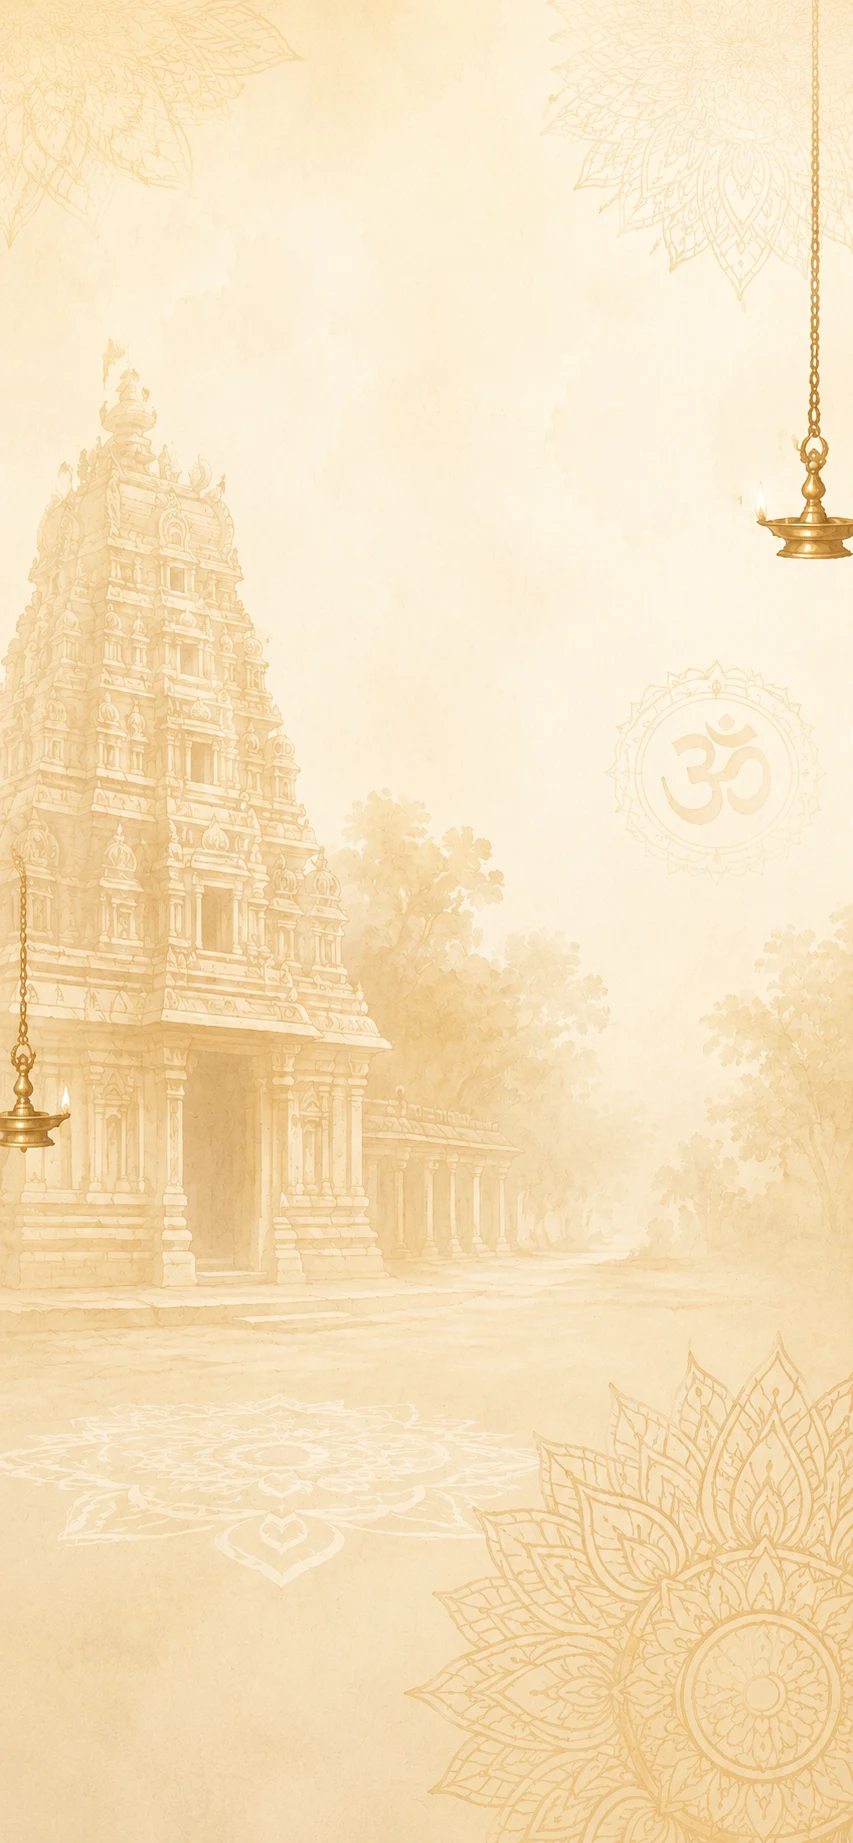
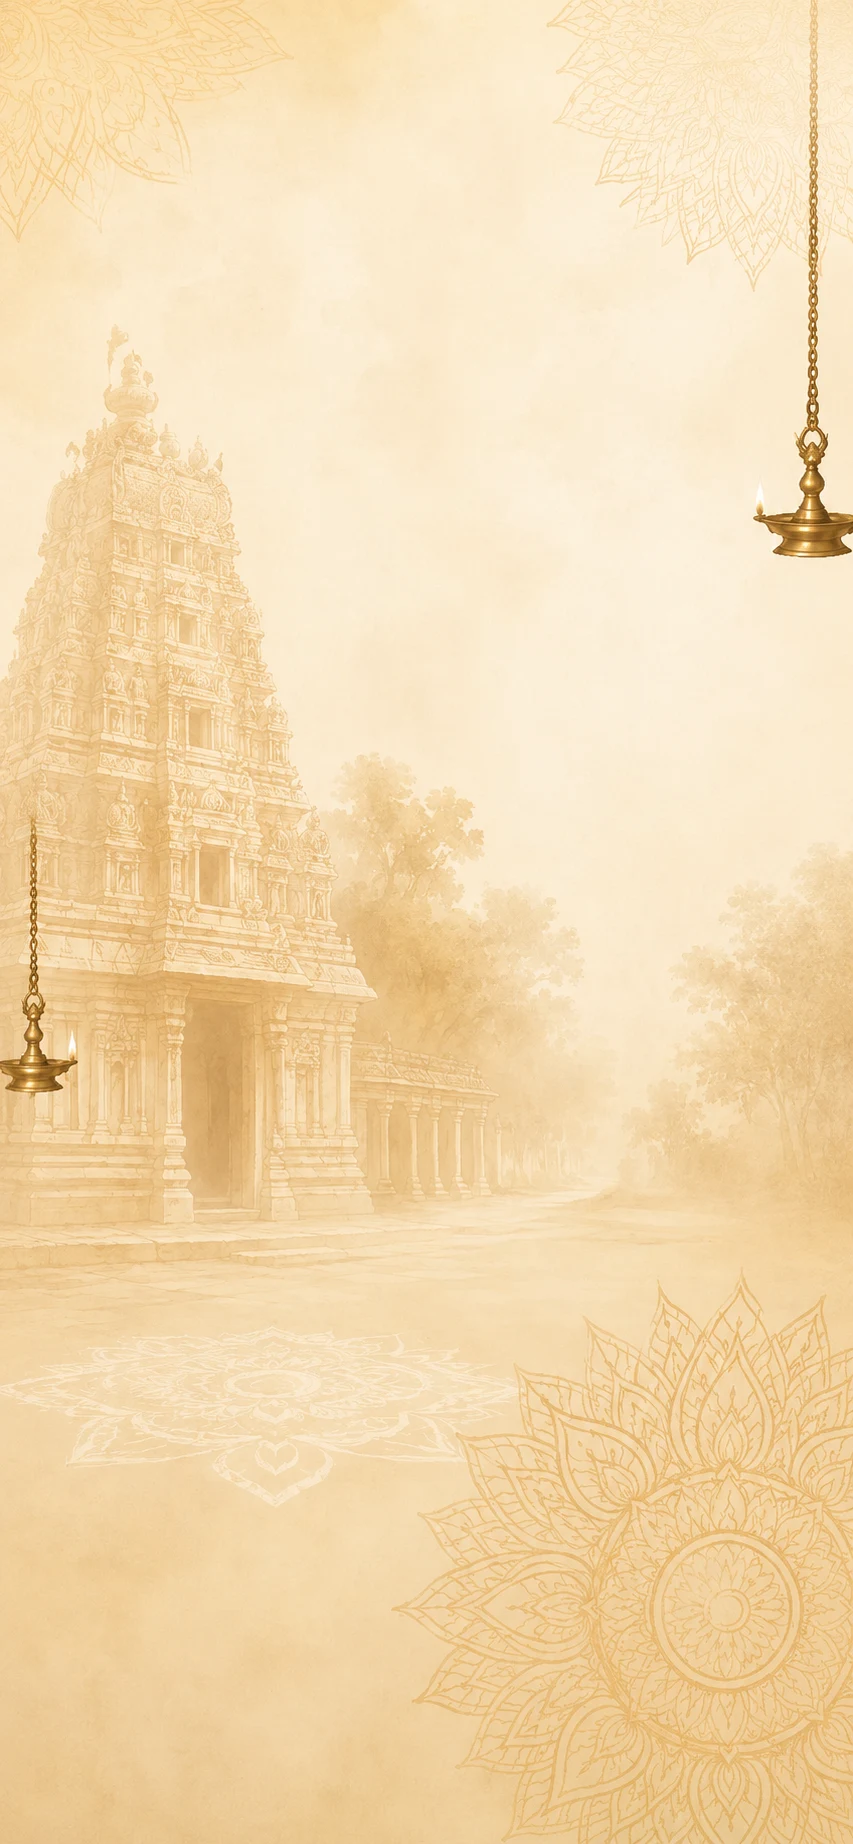
Real toggle switch for status; solid buttons; code field on masters
- Status column across every admin master list now uses a real sliding
  on/off switch (DivineSwitch) instead of a dropdown select
  (StatusToggleCell)
- POS Order Confirmation page buttons switched from the gradient
  variant to the solid single-color one
- Deity and Printing Group forms gain a Code field (list column, form
  input, edit/delete labels)

diff --git a/components/admin/PrintingGroupPage.tsx b/components/admin/PrintingGroupPage.tsx
@@ -19,6 +19,7 @@ import { patchMasterStatus } from "../../lib/patchMasterStatus";
 
 export type PrintingGroup = {
   _id: string;
+  code: string;
   name: string;
   description: string;
   status: number;
@@ -26,6 +27,7 @@ export type PrintingGroup = {
 };
 
 const schema = z.object({
+  code: z.string().trim().min(1, "Code is required").max(20),
   name: z.string().trim().min(2, "Name must be at least 2 characters").max(100),
   description: z.string().trim().max(300),
   status: z.number(),
@@ -64,14 +66,14 @@ export default function PrintingGroupPage() {
 
   function openCreate() {
     setEditing(null);
-    reset({ name: "", description: "", status: 1 });
+    reset({ code: "", name: "", description: "", status: 1 });
     create.setError(null);
     setDrawerOpen(true);
   }
 
   function openEdit(group: PrintingGroup) {
     setEditing(group);
-    reset({ name: group.name, description: group.description, status: group.status });
+    reset({ code: group.code, name: group.name, description: group.description, status: group.status });
     update.setError(null);
     setDrawerOpen(true);
   }
@@ -79,7 +81,7 @@ export default function PrintingGroupPage() {
   const submit = handleSubmit(async (values) => {
     const ok = editing
       ? await update.run(editing._id, values)
-      : await create.run({ name: values.name, description: values.description, status: values.status });
+      : await create.run(values);
     if (ok !== undefined) {
       setDrawerOpen(false);
       if (editing) toast.updated("Printing group updated successfully.");
@@ -88,6 +90,7 @@ export default function PrintingGroupPage() {
   });
 
   const columns: DataTableColumn<PrintingGroup>[] = [
+    { key: "code", label: "Code", render: (g) => <span className="font-medium tabular-nums text-amber-700">{g.code}</span> },
     { key: "name", label: "Name", render: (g) => <span className="font-medium">{g.name}</span> },
     {
       key: "description",
@@ -141,7 +144,7 @@ export default function PrintingGroupPage() {
       <ConfirmDialog
         open={Boolean(deleting)}
         title="Delete this printing group?"
-        message={deleting ? `"${deleting.name}" will be removed.` : ""}
+        message={deleting ? `"${deleting.name} (${deleting.code})" will be removed.` : ""}
         confirmLabel="Delete group"
         tone="danger"
         error={remove.error}
@@ -164,7 +167,7 @@ export default function PrintingGroupPage() {
         open={drawerOpen}
         onClose={() => setDrawerOpen(false)}
         title={editing ? "Edit Printing Group" : "Add Printing Group"}
-        subtitle={editing ? editing.name : "Define a new print-run grouping."}
+        subtitle={editing ? `${editing.name} · ${editing.code}` : "Define a new print-run grouping."}
         error={create.error || update.error}
         footer={
           <div className="flex justify-end gap-3">
@@ -179,7 +182,10 @@ export default function PrintingGroupPage() {
       >
         <form id="printing-group-form" onSubmit={submit} noValidate className="space-y-5">
           <div className="grid grid-cols-1 gap-4 sm:grid-cols-2">
+            <DivineInput staticLabel label="Code" error={errors.code?.message} {...register("code")} />
             <DivineInput staticLabel label="Name" error={errors.name?.message} {...register("name")} />
+          </div>
+          <div className="grid grid-cols-1 gap-4 sm:grid-cols-2">
             <Controller
               control={control}
               name="status"

diff --git a/components/admin/DeityPage.tsx b/components/admin/DeityPage.tsx
@@ -22,6 +22,7 @@ type Ref = { _id: string; name: string };
 
 export type Deity = {
   _id: string;
+  code: string;
   name: string;
   tamilName: string;
   printingGroup: Ref | null;
@@ -29,6 +30,7 @@ export type Deity = {
 };
 
 const schema = z.object({
+  code: z.string().trim().min(1, "Code is required").max(20),
   name: z.string().trim().min(2, "Name must be at least 2 characters").max(100),
   tamilName: z.string().trim(),
   printingGroup: z.string().min(1, "Printing group is required"),
@@ -81,7 +83,7 @@ export default function DeityPage() {
 
   function openCreate() {
     setEditing(null);
-    reset({ name: "", tamilName: "", printingGroup: "", status: 1 });
+    reset({ code: "", name: "", tamilName: "", printingGroup: "", status: 1 });
     create.setError(null);
     setDrawerOpen(true);
   }
@@ -89,6 +91,7 @@ export default function DeityPage() {
   function openEdit(deity: Deity) {
     setEditing(deity);
     reset({
+      code: deity.code,
       name: deity.name,
       tamilName: deity.tamilName,
       printingGroup: deity.printingGroup?._id ?? "",
@@ -108,6 +111,7 @@ export default function DeityPage() {
   });
 
   const columns: DataTableColumn<Deity>[] = [
+    { key: "code", label: "Code", render: (d) => <span className="font-medium tabular-nums text-amber-700">{d.code}</span> },
     { key: "name", label: "Name", render: (d) => <span className="font-medium">{d.name}</span> },
     { key: "tamilName", label: "Tamil Name", render: (d) => <span className="text-ink-500">{d.tamilName || "—"}</span> },
     {
@@ -162,7 +166,7 @@ export default function DeityPage() {
       <ConfirmDialog
         open={Boolean(deleting)}
         title="Delete this deity?"
-        message={deleting ? `"${deleting.name}" will be removed.` : ""}
+        message={deleting ? `"${deleting.name} (${deleting.code})" will be removed.` : ""}
         confirmLabel="Delete deity"
         tone="danger"
         error={remove.error}
@@ -185,7 +189,7 @@ export default function DeityPage() {
         open={drawerOpen}
         onClose={() => setDrawerOpen(false)}
         title={editing ? "Edit Deity" : "Add Deity"}
-        subtitle={editing ? editing.name : "Define a new deity."}
+        subtitle={editing ? `${editing.name} · ${editing.code}` : "Define a new deity."}
         error={create.error || update.error}
         footer={
           <div className="flex justify-end gap-3">
@@ -200,7 +204,10 @@ export default function DeityPage() {
       >
         <form id="deity-form" onSubmit={submit} noValidate className="space-y-5">
           <div className="grid grid-cols-1 gap-4 sm:grid-cols-2">
+            <DivineInput staticLabel label="Code" error={errors.code?.message} {...register("code")} />
             <DivineInput staticLabel label="Name" error={errors.name?.message} {...register("name")} />
+          </div>
+          <div className="grid grid-cols-1 gap-4 sm:grid-cols-2">
             <TamilNameField staticLabel
               englishName={nameValue}
               value={tamilNameValue}

diff --git a/components/divine/DivineSwitch.tsx b/components/divine/DivineSwitch.tsx
@@ -1,0 +1,53 @@
+"use client";
+
+type DivineSwitchProps = {
+  checked: boolean;
+  onChange: (checked: boolean) => void;
+  disabled?: boolean;
+  onLabel?: string;
+  offLabel?: string;
+  ariaLabel?: string;
+};
+
+/**
+ * A genuine sliding on/off switch — checked = green knob to the right,
+ * unchecked = gray knob to the left. Used where a boolean needs a single
+ * tap to flip (e.g. StatusToggleCell in DataTable), unlike DivineToggle
+ * (despite its name, a Yes/No dropdown) which stays a dropdown for form
+ * fields that sit among other dropdown-style inputs.
+ */
+export default function DivineSwitch({
+  checked,
+  onChange,
+  disabled,
+  onLabel = "Active",
+  offLabel = "Inactive",
+  ariaLabel,
+}: DivineSwitchProps) {
+  return (
+    <button
+      type="button"
+      role="switch"
+      aria-checked={checked}
+      aria-label={ariaLabel ?? (checked ? onLabel : offLabel)}
+      disabled={disabled}
+      onClick={() => !disabled && onChange(!checked)}
+      className={`inline-flex items-center gap-2 ${disabled ? "cursor-not-allowed opacity-60" : "cursor-pointer"}`}
+    >
+      <span
+        className={`relative h-6 w-11 shrink-0 rounded-full transition-colors duration-200 ${
+          checked ? "bg-emerald-500" : "bg-slate-300"
+        }`}
+      >
+        <span
+          className={`absolute left-0.5 top-0.5 h-5 w-5 rounded-full bg-white shadow-sm transition-transform duration-200 ${
+            checked ? "translate-x-5" : "translate-x-0"
+          }`}
+        />
+      </span>
+      <span className={`text-[12.5px] font-medium ${checked ? "text-emerald-700" : "text-slate-500"}`}>
+        {checked ? onLabel : offLabel}
+      </span>
+    </button>
+  );
+}

diff --git a/components/admin/DataTable.tsx b/components/admin/DataTable.tsx
@@ -5,7 +5,7 @@ import { createPortal } from "react-dom";
 import { AnimatePresence, motion } from "framer-motion";
 import { PlusIcon, PencilIcon, TrashIcon } from "../divine/icons";
 import DivineListbox from "../divine/DivineListbox";
-import DivineStatusSelect from "../divine/DivineStatusSelect";
+import DivineSwitch from "../divine/DivineSwitch";
 import { resolveImageUrl } from "../../lib/imageUrl";
 import { EmblemLoader } from "../divine/EmblemLoader";
 
@@ -376,7 +376,7 @@ export function StatusPill({ status }: { status: number }) {
   );
 }
 
-/** Same Active/Inactive control as the edit drawer, for toggling status from the list. */
+/** One-tap Active/Inactive switch for toggling status straight from the list. */
 export function StatusToggleCell({
   status,
   canEdit,
@@ -390,15 +390,11 @@ export function StatusToggleCell({
 }) {
   if (!canEdit || !onChange) return <StatusPill status={status} />;
   return (
-    <div className="w-[148px]" onClick={(e) => e.stopPropagation()}>
-      <DivineStatusSelect
-        compact
+    <div onClick={(e) => e.stopPropagation()}>
+      <DivineSwitch
+        checked={status === 1}
         disabled={disabled}
-        value={status}
-        onChange={(next) => {
-          if (next === status) return;
-          void onChange(next);
-        }}
+        onChange={(checked) => void onChange(checked ? 1 : 0)}
       />
     </div>
   );

diff --git a/components/admin/PosOrderConfirmationPage.tsx b/components/admin/PosOrderConfirmationPage.tsx
@@ -185,7 +185,7 @@ export default function PosOrderConfirmationPage() {
         }}
         emptyMessage="Nothing awaiting confirmation."
         rowActions={(r) => (
-          <DivineButton fullWidth={false} type="button" onClick={() => openDetail(r.referenceId)}>
+          <DivineButton variant="flame" fullWidth={false} type="button" onClick={() => openDetail(r.referenceId)}>
             <span className="inline-flex items-center gap-1.5">
               <CheckIcon className="h-3.5 w-3.5" />
               Confirm
@@ -216,7 +216,7 @@ export default function PosOrderConfirmationPage() {
               Close
             </DivineButton>
             {canConfirm && (
-              <DivineButton fullWidth={false} type="button" loading={confirming} disabled={detailLoading || !detail} onClick={handleConfirm}>
+              <DivineButton variant="flame" fullWidth={false} type="button" loading={confirming} disabled={detailLoading || !detail} onClick={handleConfirm}>
                 Confirm Payment
               </DivineButton>
             )}
